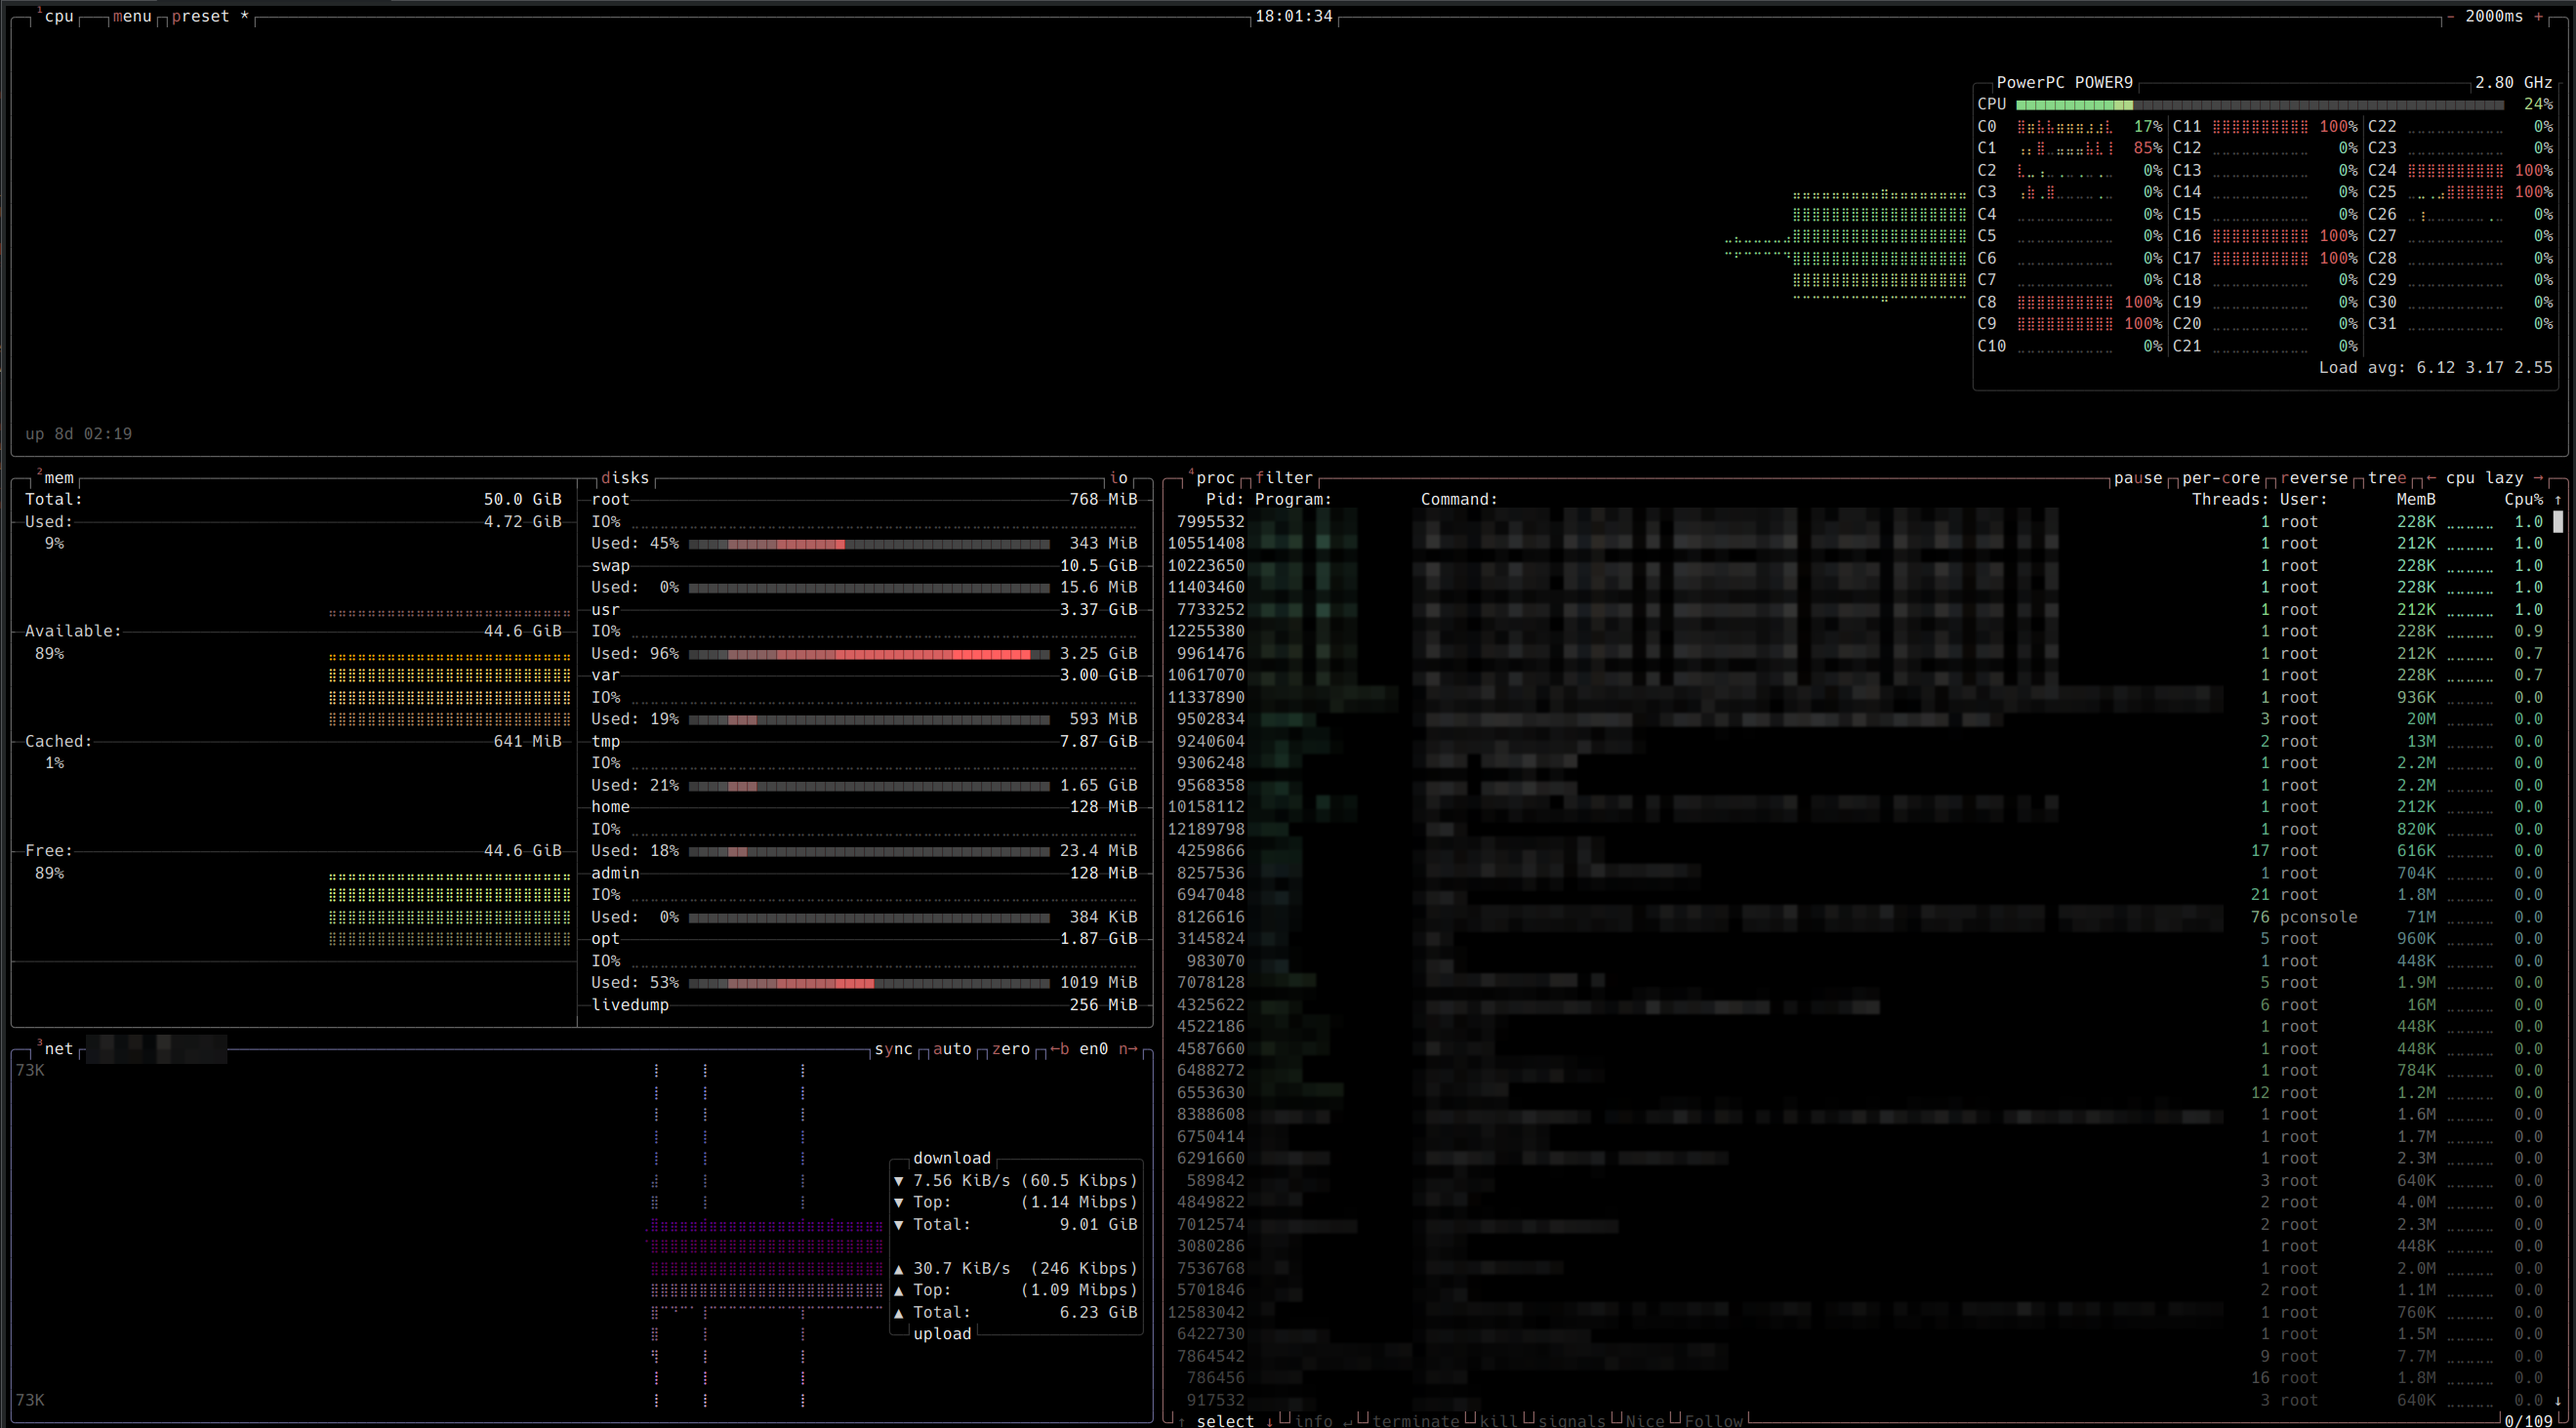
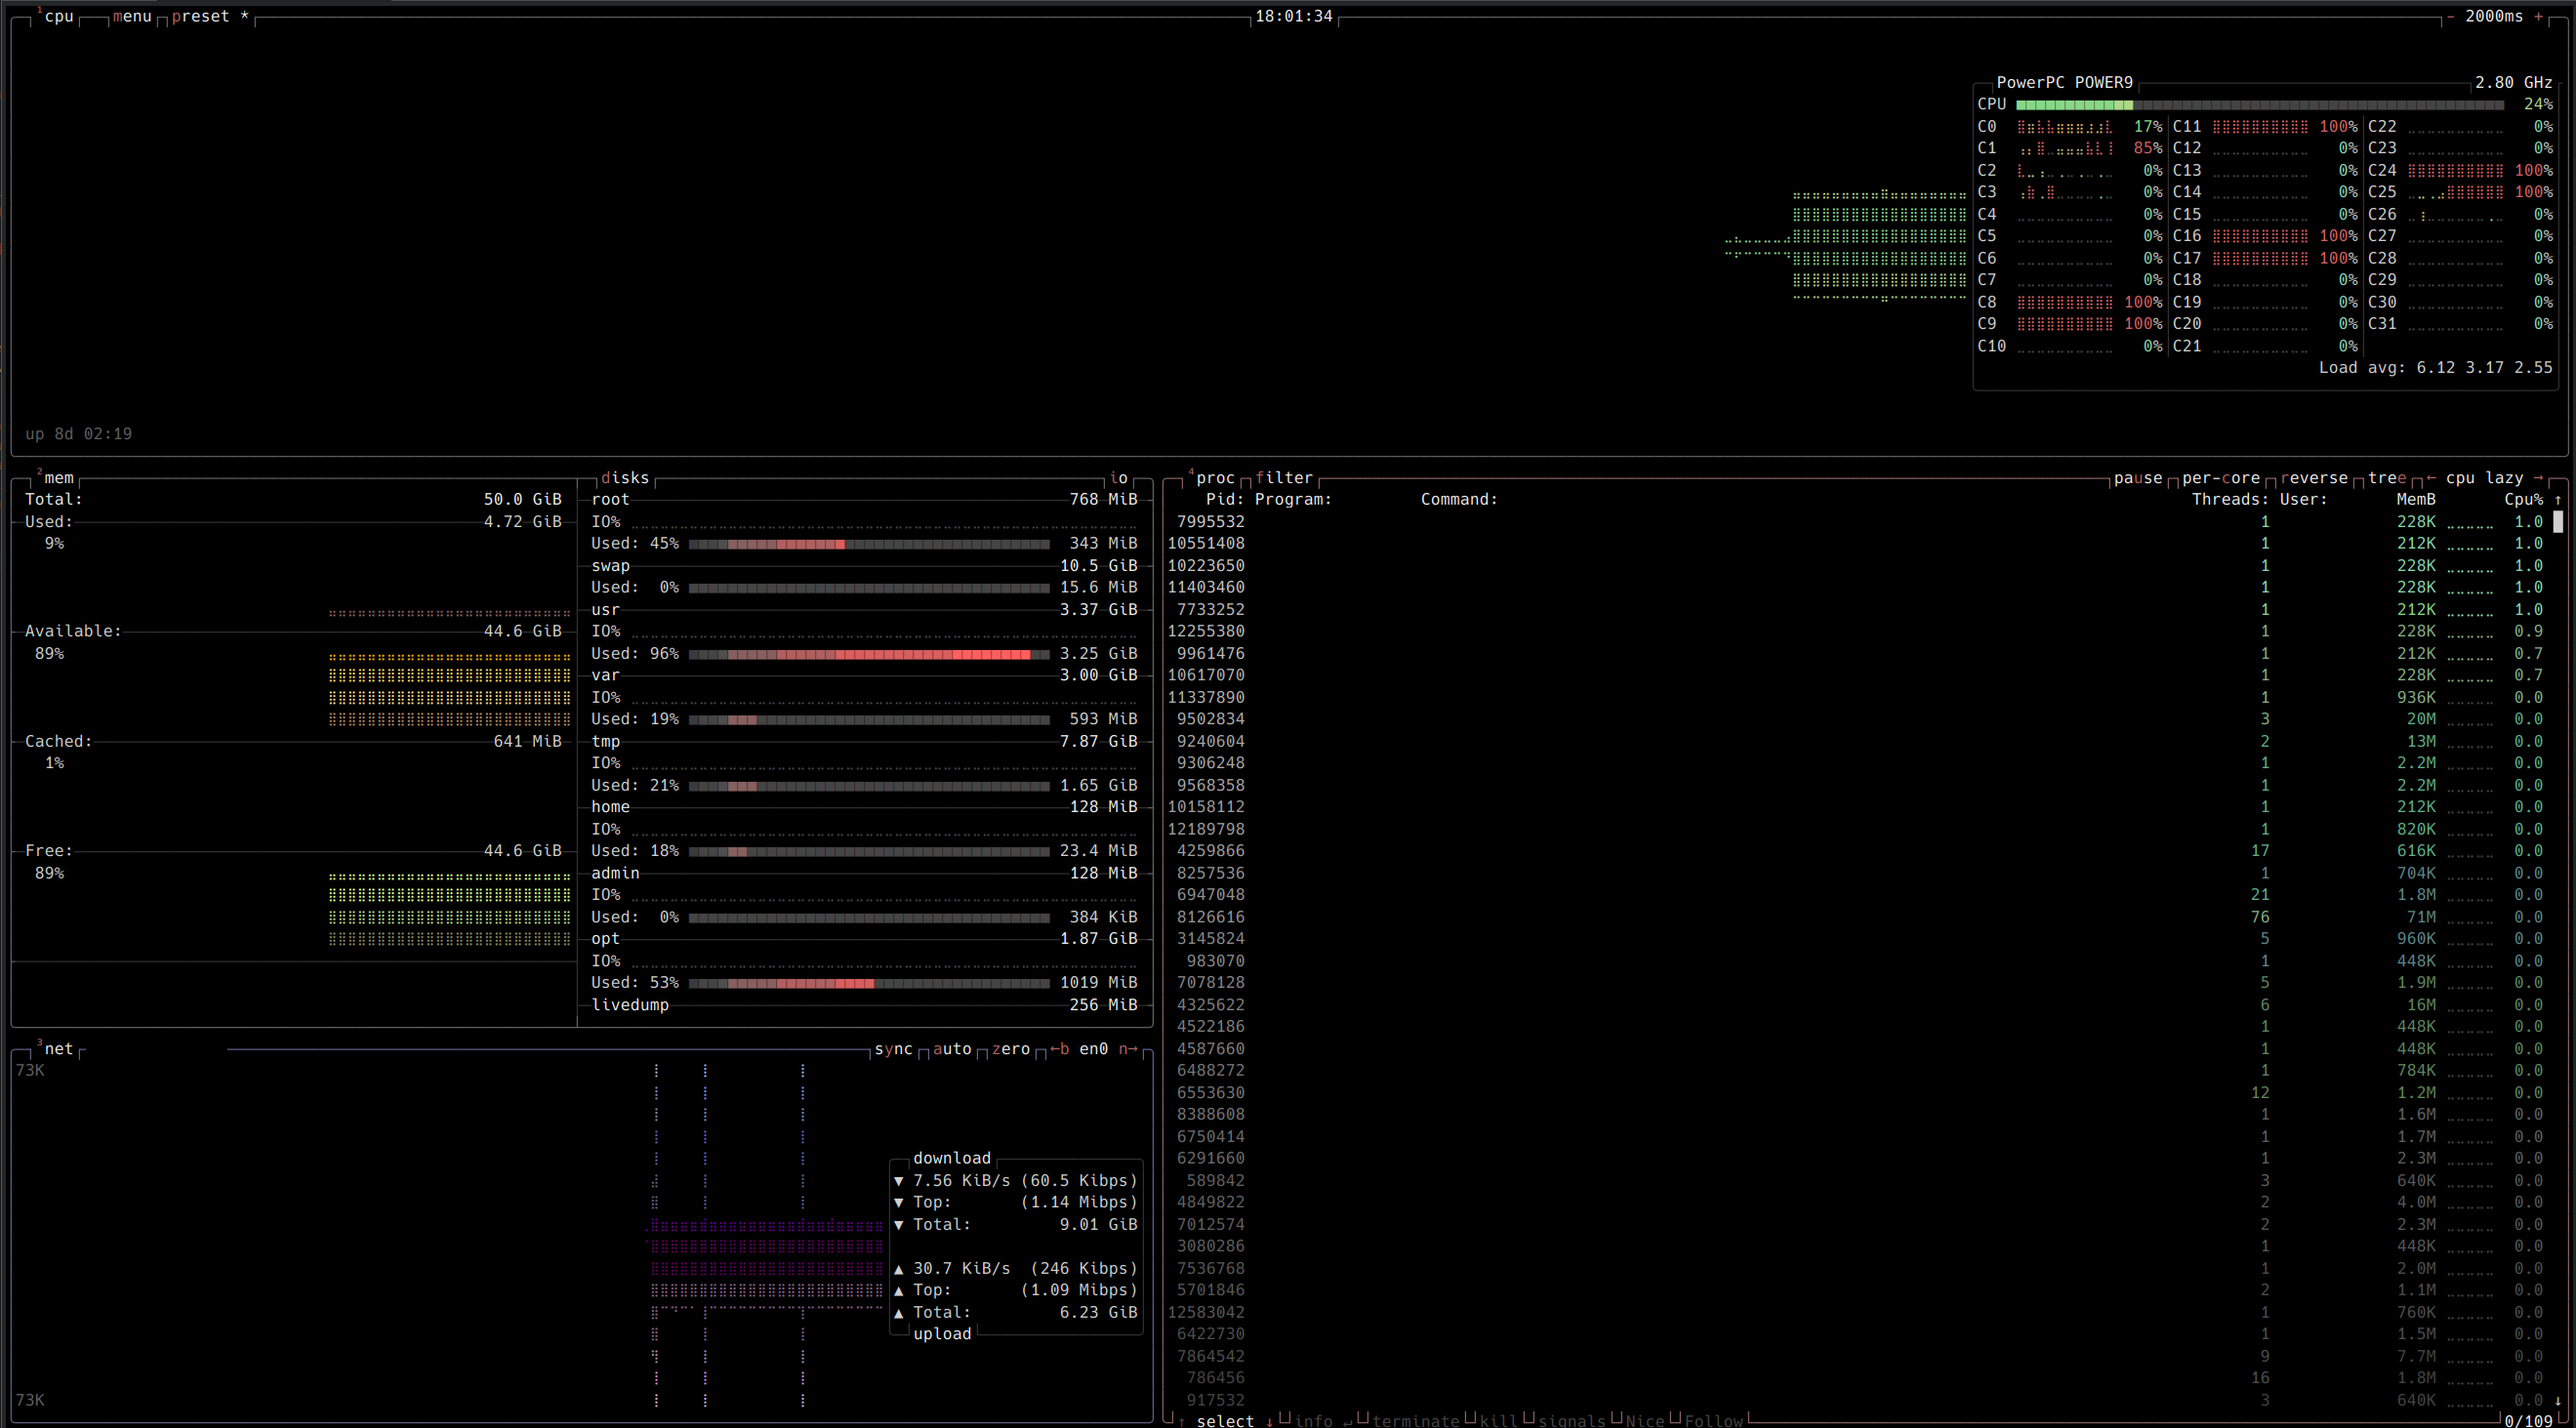
btop 1.4.7 for AIX, release 3 (1b5aac5): fixed file modes 0644/0755 in RPM and tar, launcher edge cases, README: non-monotonic perfstat sizes, last byte read, test matrix with build per row, packages as release assets, screenshot blacked out

diff --git a/README.md b/README.md
@@ -3,12 +3,12 @@
 Patches that port [btop](https://github.com/aristocratos/btop) (resource monitor for the
 terminal) to IBM AIX, and a ready-to-install package for AIX 6.1 TL7 up to 7.3.
 
-![btop on AIX 7.1 (POWER9, 32 logical CPUs, eight busy loops); network address and process names pixelated](img/btop-aix.png)
+![btop on AIX 7.1 (POWER9, 32 logical CPUs, eight busy loops); network address, process names and users blacked out](img/btop-aix.png)
 
 | Where | Content |
 |---|---|
 | [Releases](https://github.com/mawelo/aix-btop/releases) | `btop-<version>-<release>.aix6.1.ppc.rpm` (signed) and the same tree as `.tar.gz`, with `SHA256SUMS` + `SHA256SUMS.asc` (one package for AIX 6.1 TL7 to 7.3; "aix6.1" is the minimum release, rpm on 7.1 to 7.3 accepts it through its OS compatibility table) |
-| [`aix-public`](https://github.com/mawelo/btop/tree/aix-public) branch of the fork `mawelo/btop` | the same four patches as commits on top of the upstream base; `btop --version` of the package names a commit of this branch |
+| [`aix-public`](https://github.com/mawelo/btop/tree/aix-public) branch of the fork `mawelo/btop` | the same four patches as commits on top of the upstream base; `btop --version` of the package names a commit of this branch; the branch is rebuilt per release, so each release commit also carries a tag there (`v1.4.7-aix2`, `v1.4.7-aix3`) |
 | `patches/` | Patch series for the upstream repository (`git am`), base commit in `patches/BASE-COMMIT.txt` |
 | `rpm/` | `rpm-info.txt`, `BUILD.txt`, `SHA256SUMS` + `SHA256SUMS.asc` of the current release |
 | `img/` | screenshot (AIX 7100-05) |
@@ -67,19 +67,21 @@ The 7.1 build stays in the tree as a build check but is not shipped.
 
 | File | Built against | Tested on | Expected to run on |
 |---|---|---|---|
-| `rpm/btop-<version>-<release>.aix6.1.ppc.rpm` (and the same tree as `.tar.gz`) | AIX 6100-09 sysroot, static libc++ 19 | see the matrix below | AIX 6.1 TL7 and later, 7.1, 7.2, 7.3 (every technology level), because of the reasons given below |
+| `btop-<version>-<release>.aix6.1.ppc.rpm` (and the same tree as `.tar.gz`), attached to each [release](https://github.com/mawelo/aix-btop/releases) | AIX 6100-09 sysroot, static libc++ 19 | see the matrix below | AIX 6.1 TL7 and later, 7.1, 7.2, 7.3 (every technology level), because of the reasons given below |
 
-Test matrix (one run each, 2026-10-12, with the code of release 1; "load" = two single-threaded busy loops
-started next to btop):
+Test matrix (one run each; "load" = two single-threaded busy loops started next to btop). Only the 7100-05 row
+ran with the shipped release 3; the other rows ran on 2026-10-12 with earlier CI builds of the same port, before
+release 1. Since then the launcher (symlinks), the size probe (thread-safe, `*_total` calls, retry), `%pre` and
+the file modes changed; these rows have not been repeated with release 3.
 
-| AIX level | rpm.rte | Installed via | Started | Under load | Removed again |
-|---|---|---|---|---|---|
-| 6100-07-10 | n/a (non-root user) | tar, in a private directory | yes, `btop.bin --force-utf` directly | yes | yes |
-| 6100-09-04 | n/a (non-root user) | tar, in a private directory | yes, `btop.bin --force-utf` directly | yes | yes |
-| 7100-02-01 | 3.0.5 | tar; the RPM only passed `rpm -ivh --test` | yes | yes | yes |
-| 7100-05-03 | 4.13.0 | `rpm -ivh` | yes, through the launcher without `LANG` | no | `rpm -e`, no files left |
-| 7200-05-05 | 4.15.1 | `rpm -ivh` | yes | yes | `rpm -e`, no files left |
-| 7300-04-00 | 4.20.1 | `rpm -ivh` | yes | yes | `rpm -e`, no files left |
+| AIX level | Build tested | rpm.rte | Installed via | Started | Under load | Removed again |
+|---|---|---|---|---|---|---|
+| 6100-07-10 | `8269d77` | n/a (non-root user) | tar, in a private directory | yes, `btop.bin --force-utf` directly | yes | yes |
+| 6100-09-04 | `9298060` | n/a (non-root user) | tar, in a private directory | yes, `btop.bin --force-utf` directly | yes | yes |
+| 7100-02-01 | `9298060` | 3.0.5 | tar; the RPM only passed `rpm -ivh --test` | yes | yes | yes |
+| 7100-05-03 | `1b5aac5` = release 3 (2026-10-14) | 4.13.0 | `rpm -ivh`, `rpm -V` | yes, through `/usr/bin/btop` without `LANG` | no | `rpm -e`, no files left |
+| 7200-05-05 | `9226516` | 4.15.1 | `rpm -ivh` | yes | yes | `rpm -e`, no files left |
+| 7300-04-00 | `9226516` | 4.20.1 | `rpm -ivh` | yes | yes | `rpm -e`, no files left |
 
 Not tested: 6.1 TL8, 7.1 TL0/TL1/TL3/TL4, 7.2 TL0 to TL4, 7.3 TL0 to TL3. Note that AIX 6.1 and 7.1 are out of
 IBM support; the port does not change that.
@@ -88,13 +90,16 @@ Why one binary is expected to cover all of them:
 
 * The fields btop reads from libperfstat (`perfstat_cpu_total_t`, `perfstat_cpu_t`, `perfstat_memory_total_t`,
   `perfstat_disk_t`, `perfstat_netinterface_t`, `perfstat_logicalvolume_t`) sit at the same offsets in every
-  `libperfstat.h` from AIX 5.3 to 7.3; IBM has only appended fields. Structure sizes by header version
+  `libperfstat.h` from AIX 5.3 to 7.3. The structure sizes do not only grow: `perfstat_netinterface_t` has
+  240 bytes in 6.1.8 but 224 in 7.1.0 and 7.1.1, and 240 again from 7.2 on. Structure sizes by header version
   (bytes): `perfstat_cpu_t` 528 (5.3, 6.1.2) / 616 (6.1.7) / 624 (6.1.8, 7.1) / 640 (7.2, 7.3);
-  `perfstat_netinterface_t` 208 / 224 / 240; `perfstat_cpu_total_t` 624 / 696; `perfstat_memory_total_t`
-  208 / 352 (`real_avail` exists since 6.1.7); `perfstat_disk_t` 472 / 496; `perfstat_logicalvolume_t` 216 / 224.
-  The highest offset btop reads is 88 in `perfstat_cpu_t`, 176 in `perfstat_netinterface_t`, 256 in
-  `perfstat_disk_t`, 208 in `perfstat_logicalvolume_t`, 224 in `perfstat_cpu_total_t` and 336 in
-  `perfstat_memory_total_t`. Header versions are the `libperfstat.h` levels 5.3.9.7, 6.1.2.8, 6.1.7.0, 6.1.8.0,
+  `perfstat_netinterface_t` 208 (5.3, 6.1.2) / 224 (6.1.7, 7.1.0, 7.1.1) / 240 (6.1.8, 7.2, 7.3);
+  `perfstat_cpu_total_t` 624 / 696; `perfstat_memory_total_t` 208 / 352 (`real_avail` exists since 6.1.7);
+  `perfstat_disk_t` 472 / 496; `perfstat_logicalvolume_t` 216 / 224. The last byte btop reads (field offset +
+  field size) is 96 in `perfstat_cpu_t`, 184 in `perfstat_netinterface_t`, 264 in `perfstat_disk_t`, 216 in
+  `perfstat_logicalvolume_t`, 224 in `perfstat_cpu_total_t` and 336 in `perfstat_memory_total_t` (`real_avail`;
+  without it 136). Each lies within the smallest size of its structure, except `real_avail`, which the older
+  headers do not have and which then reads as zero. Header versions are the `libperfstat.h` levels 5.3.9.7, 6.1.2.8, 6.1.7.0, 6.1.8.0,
   7.1.0.1, 7.1.1.1, 7.2.5.201 and 7.3.1.0 (shortened to three digits above), not technology levels. The table
   is `tools/aix/probes/perfstat_layout/offsets_5.3-7.3.txt`, produced by the generator in the same directory
   (patch 0004); the IBM headers themselves are not included.
@@ -102,7 +107,9 @@ Why one binary is expected to cover all of them:
   built against the 6100-09 sysroot, whose header has the 6.1.8 sizes, and on `EINVAL` shrinks the size in
   steps of 8 bytes until the call succeeds; fields beyond the accepted size read as zero. Measured: 6100-07
   accepts 616 instead of 624 for `perfstat_cpu_t` and 224 instead of 240 for `perfstat_netinterface_t`,
-  7100-02 accepts 616. A newer library accepts the smaller size unchanged. This applies to all six calls above.
+  7100-02 accepts 616. A library whose structure is at least as large as the binary's accepts the size
+  unchanged; a smaller one (for `perfstat_netinterface_t` also 7.1 TL0/TL1 with 224, not measured) is handled by
+  the same probe. This applies to all six calls above.
 * What the 6.1 C library lacks is replaced: `aligned_alloc` (missing before 6.1 TL9) by `posix_memalign`, and
   the POSIX 2008 locale calls inside the statically linked C++ runtime. 6.1 TL7 is the oldest level examined:
   its C library exports every symbol the binary imports; TL6 and older were not examined. btop itself calls
@@ -115,25 +122,25 @@ when `TERM` is empty. The RPM refuses to install over a `/usr/bin/btop` that is 
 
 ```sh
 # RPM
-rpm -ivh btop-1.4.7-2.aix6.1.ppc.rpm
+rpm -ivh btop-1.4.7-3.aix6.1.ppc.rpm
 btop                                   # /usr/bin/btop -> /opt/btop/bin/btop -> /opt/btop/bin/btop.bin
 rpm -e btop
 
 # tar (rpm.rte 3.0.5): the archive contains only opt/btop
-cd / && gzip -dc btop-1.4.7-2.aix6.1.ppc.tar.gz | tar -xf -
+cd / && gzip -dc btop-1.4.7-3.aix6.1.ppc.tar.gz | tar -xf -
 ln -s /opt/btop/bin/btop /usr/bin/btop   # optional
 rm -rf /opt/btop /usr/bin/btop           # uninstall
 
 # tar without root, into any directory
-mkdir ~/btop && cd ~/btop && gzip -dc /path/to/btop-1.4.7-2.aix6.1.ppc.tar.gz | tar -xf -
+mkdir ~/btop && cd ~/btop && gzip -dc /path/to/btop-1.4.7-3.aix6.1.ppc.tar.gz | tar -xf -
 ~/btop/opt/btop/bin/btop                 # the launcher starts the btop.bin next to it (symlinks are followed)
 ```
 
 Layout: `/opt/btop/bin` (launcher and binary), `/opt/btop/share/btop/themes`, `/opt/btop/share/doc/btop`
 (`README.md`, `README.AIX`, `LICENSE`), symlink `/usr/bin/btop` (RPM only); per-user configuration in
 `~/.config/btop`, log in `~/.local/state/btop.log`. `btop --version` prints the commit the binary was built
-from; `rpm-info.txt` next to the package lists header, requirements and file list; `BUILD.txt` names the
-commit and the build timestamp.
+from; in this repository `rpm/rpm-info.txt` lists header, requirements and file list of the package and
+`rpm/BUILD.txt` names the commit and the build timestamp.
 
 ## What the port shows
 
@@ -156,7 +163,7 @@ with the one shown on the GitHub profile or in the release notes, not only with 
 ```sh
 # on AIX with rpm.rte 4.15 or newer (tested: 4.15.1 on 7200-05, 4.20.1 on 7300-04)
 rpm --import KEYS
-rpm -K btop-1.4.7-2.aix6.1.ppc.rpm          # "digests signatures OK"
+rpm -K btop-1.4.7-3.aix6.1.ppc.rpm          # "digests signatures OK"
 
 # anywhere with GnuPG
 gpg --import KEYS
